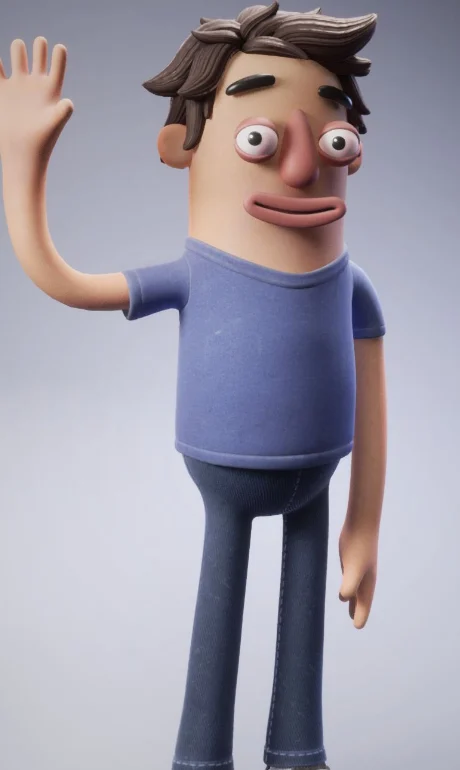
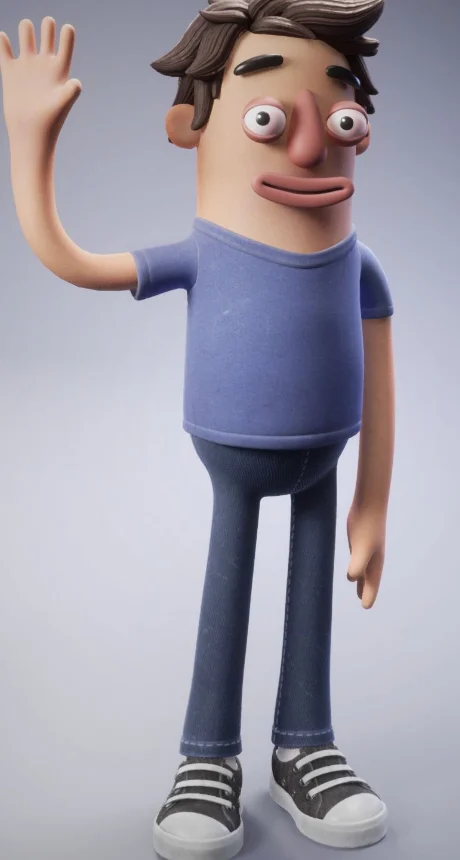
Iconos propios en la frase y cifras, personajes nuevos en paquetes y scroll mas corto
- Quita los personajes de las cifras, el del gorro verde y el del pelo azul
- Trazo que se dibuja al bajar en Como funciona y barra mas visible
- Escena y pasos mas cortos; tiempos de entrega aproximados; Solicitar cotizacion

Claude-Session: https://claude.ai/code/session_01UBuM99uni8DYWsoRWonEju

diff --git a/src/i18n.js b/src/i18n.js
@@ -1,7 +1,7 @@
 // Textos de la web en los cuatro idiomas. El ingles es el que sale en el HTML
 // (lo que lee Google); los otros se aplican en el navegador segun ?lang= o el idioma del navegador.
 // Precios y paquetes son los aprobados; el texto evita la palabra "pagar" (pedido de Alejandro).
-// {a:nombre} dentro de "st" inserta la carita de un personaje en la frase.
+// {i:nombre} dentro de "st" inserta un icono propio (src/icons.js) en la frase.
 export const LANGS = ["en", "es", "pt", "fr"];
 
 export const T = {
@@ -23,10 +23,10 @@ export const T = {
     "h_btn": "See packages",
     "h_btn2": "How it works",
     "h_hint": "Scroll",
-    "sc_a": "3 h 12 min of stream.",
+    "sc_a": "Last night's stream.",
     "sc_b": "38 seconds worth sharing.",
     "cap": "NO WAY HE HIT THAT",
-    "st": "Hours of stream {a:gota} hide a few seconds worth sharing {a:feliz}. We find them, cut them and caption them. Then a real person {a:saludo} watches every clip before it reaches you.",
+    "st": "Hours of stream {i:clock} hide a few seconds worth sharing {i:spark}. We find them, cut them and caption them. Then a real person {i:eye} watches every clip before it reaches you.",
     "b1n": "8 h",
     "b1t": "Fastest delivery, with Premium.",
     "b2n": "50+",
@@ -89,21 +89,21 @@ export const T = {
     "f4b": "Music on specific moments",
     "f4c": "Content proposals for your channel",
     "f4d": "One editor who knows your stream",
-    "pr_cont": "Request information",
+    "pr_cont": "Request a quote",
     "pr_note": "<b>How it works:</b> pick your package, send us a public VOD link and the part you want us to work on. We pick the moments, edit and review each clip by hand, and send them to you by email.",
     "a_lead": "Not a package: a dedicated editor who works with you on your channel. Tell us what you need and we'll send you a proposal.",
     "a_ln": "Your name",
     "a_lm": "Your email",
     "a_lc": "Your channel",
     "a_lq": "What do you need?",
-    "a_btn": "Request information",
+    "a_btn": "Request a quote",
     "a_fine": "No commitment. We reply by email with a tailored proposal.",
     "a_okh": "Request received.",
     "a_okp": "We'll get back to you by email with a proposal.",
     "q1": "Do I have to give you access to my account?",
     "a1": "No. We only need the link to a public VOD. We never ask for passwords.",
     "q2": "How long does it take?",
-    "a2": "It depends on the package: 72 hours for the trial offer, 48 hours for Essential, 24 hours for Pro and 8 hours for Premium.",
+    "a2": "It depends on the package, and times are approximate: about 72 hours for the trial offer, 48 hours for Essential, 24 hours for Pro and 8 hours for Premium.",
     "q3": "What languages do the captions come in?",
     "a3": "The one you stream in. We detect it automatically: every European language and 50+ more. Japanese, Chinese, Korean and Arabic aren't supported yet.",
     "q4": "Is it safe?",
@@ -144,10 +144,10 @@ export const T = {
     "h_btn": "Ver paquetes",
     "h_btn2": "Cómo funciona",
     "h_hint": "Desliza",
-    "sc_a": "3 h 12 min de stream.",
+    "sc_a": "Tu stream de anoche.",
     "sc_b": "38 segundos que vale la pena compartir.",
     "cap": "NO PUEDE SER",
-    "st": "Horas de stream {a:gota} esconden unos segundos que vale la pena compartir {a:feliz}. Los encontramos, los cortamos y los subtitulamos. Y una persona de verdad {a:saludo} mira cada clip antes de que llegue a ti.",
+    "st": "Horas de stream {i:clock} esconden unos segundos que vale la pena compartir {i:spark}. Los encontramos, los cortamos y los subtitulamos. Y una persona de verdad {i:eye} mira cada clip antes de que llegue a ti.",
     "b1n": "8 h",
     "b1t": "La entrega más rápida, con Premium.",
     "b2n": "50+",
@@ -210,21 +210,21 @@ export const T = {
     "f4b": "Música en momentos concretos",
     "f4c": "Propuestas de contenido para tu canal",
     "f4d": "Un editor que conoce tu stream",
-    "pr_cont": "Solicitar información",
+    "pr_cont": "Solicitar cotización",
     "pr_note": "<b>Cómo funciona:</b> eliges tu paquete, nos envías el link de un VOD público y el tramo que quieres. Elegimos los momentos, editamos y revisamos cada clip a mano y te los enviamos por correo.",
     "a_lead": "No es un paquete: un editor dedicado que trabaja contigo en tu canal. Cuéntanos qué necesitas y te enviamos una propuesta.",
     "a_ln": "Tu nombre",
     "a_lm": "Tu correo",
     "a_lc": "Tu canal",
     "a_lq": "¿Qué necesitas?",
-    "a_btn": "Solicitar información",
+    "a_btn": "Solicitar cotización",
     "a_fine": "Sin compromiso. Te respondemos por correo con una propuesta a medida.",
     "a_okh": "Solicitud recibida.",
     "a_okp": "Te escribiremos por correo con una propuesta.",
     "q1": "¿Tengo que darles acceso a mi cuenta?",
     "a1": "No. Solo necesitamos el link de un VOD público. Nunca pedimos contraseñas.",
     "q2": "¿Cuánto tardan?",
-    "a2": "Depende del paquete: 72 horas la oferta de prueba, 48 horas Esencial, 24 horas Pro y 8 horas Premium.",
+    "a2": "Depende del paquete, y son tiempos aproximados: unas 72 horas la oferta de prueba, 48 horas Esencial, 24 horas Pro y 8 horas Premium.",
     "q3": "¿En qué idiomas van los subtítulos?",
     "a3": "En el que hablas en tu stream. Lo detectamos solos: todos los idiomas europeos y más de 50 en total. Japonés, chino, coreano y árabe todavía no.",
     "q4": "¿Es seguro?",
@@ -265,10 +265,10 @@ export const T = {
     "h_btn": "Ver pacotes",
     "h_btn2": "Como funciona",
     "h_hint": "Role",
-    "sc_a": "3 h 12 min de live.",
+    "sc_a": "Sua live de ontem.",
     "sc_b": "38 segundos que valem a pena compartilhar.",
     "cap": "NÃO ACREDITO NISSO",
-    "st": "Horas de live {a:gota} escondem alguns segundos que valem a pena compartilhar {a:feliz}. A gente encontra, corta e legenda. E uma pessoa de verdade {a:saludo} assiste cada clipe antes de chegar até você.",
+    "st": "Horas de live {i:clock} escondem alguns segundos que valem a pena compartilhar {i:spark}. A gente encontra, corta e legenda. E uma pessoa de verdade {i:eye} assiste cada clipe antes de chegar até você.",
     "b1n": "8 h",
     "b1t": "A entrega mais rápida, com Premium.",
     "b2n": "50+",
@@ -331,21 +331,21 @@ export const T = {
     "f4b": "Música em momentos específicos",
     "f4c": "Propostas de conteúdo para o seu canal",
     "f4d": "Um editor que conhece a sua live",
-    "pr_cont": "Pedir informações",
+    "pr_cont": "Pedir orçamento",
     "pr_note": "<b>Como funciona:</b> você escolhe seu pacote, nos envia o link de um VOD público e o trecho que quer. Escolhemos os momentos, editamos e revisamos cada clipe à mão e enviamos por e-mail.",
     "a_lead": "Não é um pacote: um editor dedicado que trabalha com você no seu canal. Conte o que precisa e enviamos uma proposta.",
     "a_ln": "Seu nome",
     "a_lm": "Seu e-mail",
     "a_lc": "Seu canal",
     "a_lq": "Do que você precisa?",
-    "a_btn": "Solicitar informações",
+    "a_btn": "Solicitar orçamento",
     "a_fine": "Sem compromisso. Respondemos por e-mail com uma proposta sob medida.",
     "a_okh": "Solicitação recebida.",
     "a_okp": "Vamos responder por e-mail com uma proposta.",
     "q1": "Preciso dar acesso à minha conta?",
     "a1": "Não. Só precisamos do link de um VOD público. Nunca pedimos senhas.",
     "q2": "Quanto tempo demora?",
-    "a2": "Depende do pacote: 72 horas a oferta de teste, 48 horas Essencial, 24 horas Pro e 8 horas Premium.",
+    "a2": "Depende do pacote, e os prazos são aproximados: cerca de 72 horas a oferta de teste, 48 horas Essencial, 24 horas Pro e 8 horas Premium.",
     "q3": "Em que idiomas vêm as legendas?",
     "a3": "No que você fala na live. A gente detecta sozinho: todos os idiomas europeus e mais de 50 no total. Japonês, chinês, coreano e árabe ainda não.",
     "q4": "É seguro?",
@@ -386,10 +386,10 @@ export const T = {
     "h_btn": "Voir les offres",
     "h_btn2": "Comment ça marche",
     "h_hint": "Défile",
-    "sc_a": "3 h 12 min de stream.",
+    "sc_a": "Ton live d'hier soir.",
     "sc_b": "38 secondes à partager.",
     "cap": "C'EST PAS POSSIBLE",
-    "st": "Des heures de stream {a:gota} cachent quelques secondes à partager {a:feliz}. On les trouve, on les coupe, on les sous-titre. Et une vraie personne {a:saludo} regarde chaque clip avant qu'il t'arrive.",
+    "st": "Des heures de stream {i:clock} cachent quelques secondes à partager {i:spark}. On les trouve, on les coupe, on les sous-titre. Et une vraie personne {i:eye} regarde chaque clip avant qu'il t'arrive.",
     "b1n": "8 h",
     "b1t": "La livraison la plus rapide, avec Premium.",
     "b2n": "50+",
@@ -452,21 +452,21 @@ export const T = {
     "f4b": "De la musique sur des moments précis",
     "f4c": "Des propositions de contenu pour ta chaîne",
     "f4d": "Un monteur qui connaît ton stream",
-    "pr_cont": "Demander des infos",
+    "pr_cont": "Demander un devis",
     "pr_note": "<b>Comment ça marche :</b> tu choisis ton offre, tu nous envoies le lien d'un VOD public et le passage voulu. On choisit les moments, on monte et on relit chaque clip à la main, puis on te les envoie par e-mail.",
     "a_lead": "Pas une offre : un monteur dédié qui travaille avec toi sur ta chaîne. Dis-nous ce dont tu as besoin et on t'envoie une proposition.",
     "a_ln": "Ton nom",
     "a_lm": "Ton e-mail",
     "a_lc": "Ta chaîne",
     "a_lq": "De quoi as-tu besoin ?",
-    "a_btn": "Demander des infos",
+    "a_btn": "Demander un devis",
     "a_fine": "Sans engagement. On te répond par e-mail avec une proposition sur mesure.",
     "a_okh": "Demande reçue.",
     "a_okp": "On te répond par e-mail avec une proposition.",
     "q1": "Je dois vous donner accès à mon compte ?",
     "a1": "Non. Il nous faut seulement le lien d'un VOD public. On ne demande jamais de mot de passe.",
     "q2": "Combien de temps ça prend ?",
-    "a2": "Ça dépend de l'offre : 72 heures pour l'offre d'essai, 48 heures pour Essentiel, 24 heures pour Pro et 8 heures pour Premium.",
+    "a2": "Ça dépend de l'offre, et les délais sont approximatifs : environ 72 heures pour l'offre d'essai, 48 heures pour Essentiel, 24 heures pour Pro et 8 heures pour Premium.",
     "q3": "Dans quelles langues sont les sous-titres ?",
     "a3": "Celle que tu parles en stream. On la détecte automatiquement : toutes les langues européennes et 50 autres. Le japonais, le chinois, le coréen et l'arabe ne sont pas encore pris en charge.",
     "q4": "C'est sûr ?",

diff --git a/src/styles/global.css b/src/styles/global.css
@@ -117,7 +117,7 @@ section[id] { scroll-margin-top: 64px; }
 .hero-cta { display: flex; flex-wrap: wrap; justify-content: center; align-items: center; gap: 14px 28px; margin-top: 28px; }
 
 /* ═══ 2 · ESCENA: del stream al clip ═══ */
-.scene { height: 340vh; position: relative; }
+.scene { height: 230vh; position: relative; }
 .scene-pin { position: sticky; top: 0; height: 100svh; display: flex; flex-direction: column; align-items: center; padding: 76px 0 24px; gap: 16px; overflow: hidden; }
 .stage { flex: 1; width: 100%; display: grid; place-items: center; min-height: 0; }
 .scene-copy { position: relative; height: 2.3em; flex: none; width: 100%; text-align: center; font-size: clamp(26px, 3.6vw, 48px); font-weight: 700; letter-spacing: -0.04em; line-height: 1.1; padding: 0 var(--gutter); }
@@ -163,7 +163,7 @@ section[id] { scroll-margin-top: 64px; }
 
 /* ═══ 4 · CIFRAS ═══ */
 .bento { display: grid; grid-template-columns: repeat(4, 1fr); gap: 16px; padding-bottom: 8vh; }
-.tile { background: var(--card); border-radius: 28px; padding: 12px 12px clamp(20px, 2.4vw, 28px); min-height: 280px; gap: 14px; display: flex; flex-direction: column; justify-content: space-between; border: 0; }
+.tile { background: var(--card); border-radius: 28px; padding: 14px 14px clamp(20px, 2.4vw, 28px); min-height: 230px; gap: 14px; display: flex; flex-direction: column; justify-content: space-between; border: 0; }
 .tile-n { padding: 0 12px; white-space: nowrap; font-size: clamp(40px, 4.4vw, 68px); font-weight: 700; letter-spacing: -0.06em; line-height: 0.95; font-variant-numeric: tabular-nums; }
 .tile:nth-child(odd) .tile-n { background: linear-gradient(160deg, var(--fg) 30%, var(--sage) 130%); -webkit-background-clip: text; background-clip: text; color: transparent; }
 .tile-t { padding: 0 12px; font-size: 17px; line-height: 1.32; color: var(--mute); font-weight: 500; letter-spacing: -0.02em; max-width: 18ch; }
@@ -454,3 +454,23 @@ details p a { color: var(--forest); text-decoration: underline; text-underline-o
 @media (max-width: 960px) { .pet-offer { display: none; } .pricing .editor { grid-template-columns: 1fr; } }
 .pricing .badge { top: 22px; }
 .pricing .pill-ghost { background: rgba(255, 255, 255, 0.7); border: 1px solid rgba(20, 38, 31, 0.08); }
+
+/* ═══ ICONOS PROPIOS (frase, cifras, burbujas) ═══ */
+.st .av { display: inline-grid; place-items: center; color: var(--forest); background: linear-gradient(145deg, #eef3ee, #d5e1d8); box-shadow: inset 0 1px 0 rgba(255, 255, 255, 0.9), 0 8px 20px -10px rgba(20, 45, 36, 0.45); }
+.st .av svg { width: 0.62em; height: 0.62em; }
+.tile-ic { width: 56px; height: 56px; border-radius: 18px; display: grid; place-items: center; color: var(--forest); background: linear-gradient(145deg, #f6f8f5, #dbe5dd); box-shadow: inset 0 1px 0 rgba(255, 255, 255, 0.9), 0 14px 24px -14px rgba(20, 45, 36, 0.4); margin: 8px 0 0 8px; }
+.tile-ic svg { width: 26px; height: 26px; }
+.orb { display: grid; place-items: center; color: var(--forest); border-radius: 50%; background: radial-gradient(circle at 30% 25%, rgba(255, 255, 255, 0.95), rgba(220, 232, 223, 0.7) 60%, rgba(143, 168, 152, 0.45)); -webkit-backdrop-filter: blur(10px); backdrop-filter: blur(10px); border: 1px solid rgba(255, 255, 255, 0.7); }
+.orb svg { width: 38%; height: 38%; }
+
+/* ═══ TRAZO QUE SE DIBUJA EN "COMO FUNCIONA" ═══ */
+.how-body { position: relative; }
+.how-trail { position: absolute; inset: -6% -2%; width: 104%; height: 112%; pointer-events: none; z-index: 0; overflow: visible; }
+.how-trail path { fill: none; stroke: var(--sage); stroke-width: 2.5; stroke-linecap: round; opacity: 0.75; }
+.how-trail circle { fill: var(--forest); stroke: #fff; stroke-width: 3; }
+.how .pics, .how .steps { position: relative; z-index: 1; }
+.how.flat .how-trail { display: none; }
+.how-bar { height: 3px; background: rgba(47, 85, 71, 0.14); }
+.how-bar i { background: var(--forest); opacity: 0.75; }
+.pet img { object-position: 50% 16%; }
+.pic img { object-position: 50% 10%; }

diff --git a/src/scripts/motion.js b/src/scripts/motion.js
@@ -162,16 +162,26 @@ mm.add({ big: "(min-width: 861px)", small: "(max-width: 860px)" }, (ctx) => {
   gsap.set(pics[0], { opacity: 1, scale: 1, rotate: -2 });
   const tl = gsap.timeline({
     defaults: { ease: "power2.inOut" },
-    scrollTrigger: { trigger: how, start: "top top", end: "+=220%", pin: ".how-pin", scrub: 0.6 },
+    scrollTrigger: { trigger: how, start: "top top", end: "+=130%", pin: ".how-pin", scrub: 0.5 },
   });
   tl.to("#howBar", { scaleX: 1, ease: "none", duration: 2 }, 0);
+  // Un trazo que se va dibujando con un punto en la punta: siempre se mueve algo al bajar
+  const path = $("#howPath"), dot = $("#howDot"), len = path.getTotalLength();
+  gsap.set(path, { strokeDasharray: len, strokeDashoffset: len });
+  const tr = { p: 0 };
+  tl.to(tr, { p: 1, ease: "none", duration: 2, onUpdate: () => {
+    path.style.strokeDashoffset = len * (1 - tr.p);
+    const pt = path.getPointAtLength(len * tr.p);
+    dot.setAttribute("cx", pt.x); dot.setAttribute("cy", pt.y);
+  } }, 0);
+  tl.fromTo(".pics", { y: 30 }, { y: -30, ease: "none", duration: 2 }, 0);
   steps.slice(1).forEach((s, i) => {
     tl.to(steps[i], { opacity: 0, y: -40, duration: 0.35 }, i + 0.45)
       .to(s, { opacity: 1, y: 0, duration: 0.35 }, i + 0.6)
       .to(pics[i], { opacity: 0, scale: 0.92, rotate: -6, duration: 0.4 }, i + 0.45)
       .to(pics[i + 1], { opacity: 1, scale: 1, rotate: i % 2 ? -2 : 2, duration: 0.45 }, i + 0.55);
   });
-  return () => gsap.set([steps, pics, "#howBar"], { clearProps: "all" });
+  return () => gsap.set([steps, pics, "#howBar", ".pics", "#howPath"], { clearProps: "all" });
 });
 
 /* ═══ APARECER AL BAJAR ═══ */

diff --git a/src/scripts/app.js b/src/scripts/app.js
@@ -1,4 +1,5 @@
 import { T, LANGS } from "../i18n.js";
+import { ICONS, stToken } from "../icons.js";
 
 /* CONFIG: lo unico que hay que tocar */
 const SL = {
@@ -22,18 +23,15 @@ const sel = document.getElementById("lang");
 const tx = (k) => T[L][k] ?? T.en[k];
 
 function wordsInto(el, text) {
-  // "{a:nombre}" pone la carita de ese personaje dentro de la frase
+  // "{i:nombre}" pone un icono propio dentro de la frase
   el.replaceChildren(...text.split(" ").flatMap((w) => {
-    const m = w.match(/^\{a:(\w+)\}(.*)$/);
     const word = (txt) => { const s = document.createElement("span"); s.textContent = txt + " "; return s; };
+    const m = stToken(w);
     if (!m) return [word(w)];
     const av = document.createElement("span");
     av.className = "av";
-    const img = document.createElement("img");
-    img.src = window.__IMG?.[m[1]] || `/media/ejemplos/${m[1]}.webp`;
-    img.alt = "";
-    av.append(img);
-    return m[2] ? [av, word(m[2])] : [av];
+    av.innerHTML = ICONS[m.icon] || "";
+    return m.rest ? [av, word(m.rest)] : [av];
   }));
 }
 

diff --git a/src/icons.js b/src/icons.js
@@ -1,0 +1,11 @@
+// Iconos propios (dibujados aqui, sin derechos de terceros) para la frase grande.
+// "{i:nombre}" dentro del texto pone el icono en una pastilla verde.
+const s = (d) => `<svg viewBox="0 0 24 24" fill="none" stroke="currentColor" stroke-width="2" stroke-linecap="round" stroke-linejoin="round" aria-hidden="true">${d}</svg>`;
+export const ICONS = {
+  clock: s('<circle cx="12" cy="12" r="8.5"/><path d="M12 7.5V12l3 2"/>'),
+  spark: s('<path d="M12 3.5l1.9 5.1 5.1 1.9-5.1 1.9L12 17.5l-1.9-5.1L5 10.5l5.1-1.9z"/><path d="M18.5 16.5l.7 1.8 1.8.7-1.8.7-.7 1.8-.7-1.8-1.8-.7 1.8-.7z"/>'),
+  eye: s('<path d="M2.5 12S6 5.5 12 5.5 21.5 12 21.5 12 18 18.5 12 18.5 2.5 12 2.5 12z"/><circle cx="12" cy="12" r="3"/>'),
+  play: s('<path d="M8 5.5v13l10.5-6.5z"/>'),
+  cc: s('<rect x="3" y="5.5" width="18" height="13" rx="3"/><path d="M10.5 10.2a2.2 2.2 0 1 0 0 3.6M16.5 10.2a2.2 2.2 0 1 0 0 3.6"/>'),
+};
+export const stToken = (w) => { const m = w.match(/^\{i:(\w+)\}(.*)$/); return m ? { icon: m[1], rest: m[2] } : null; };
